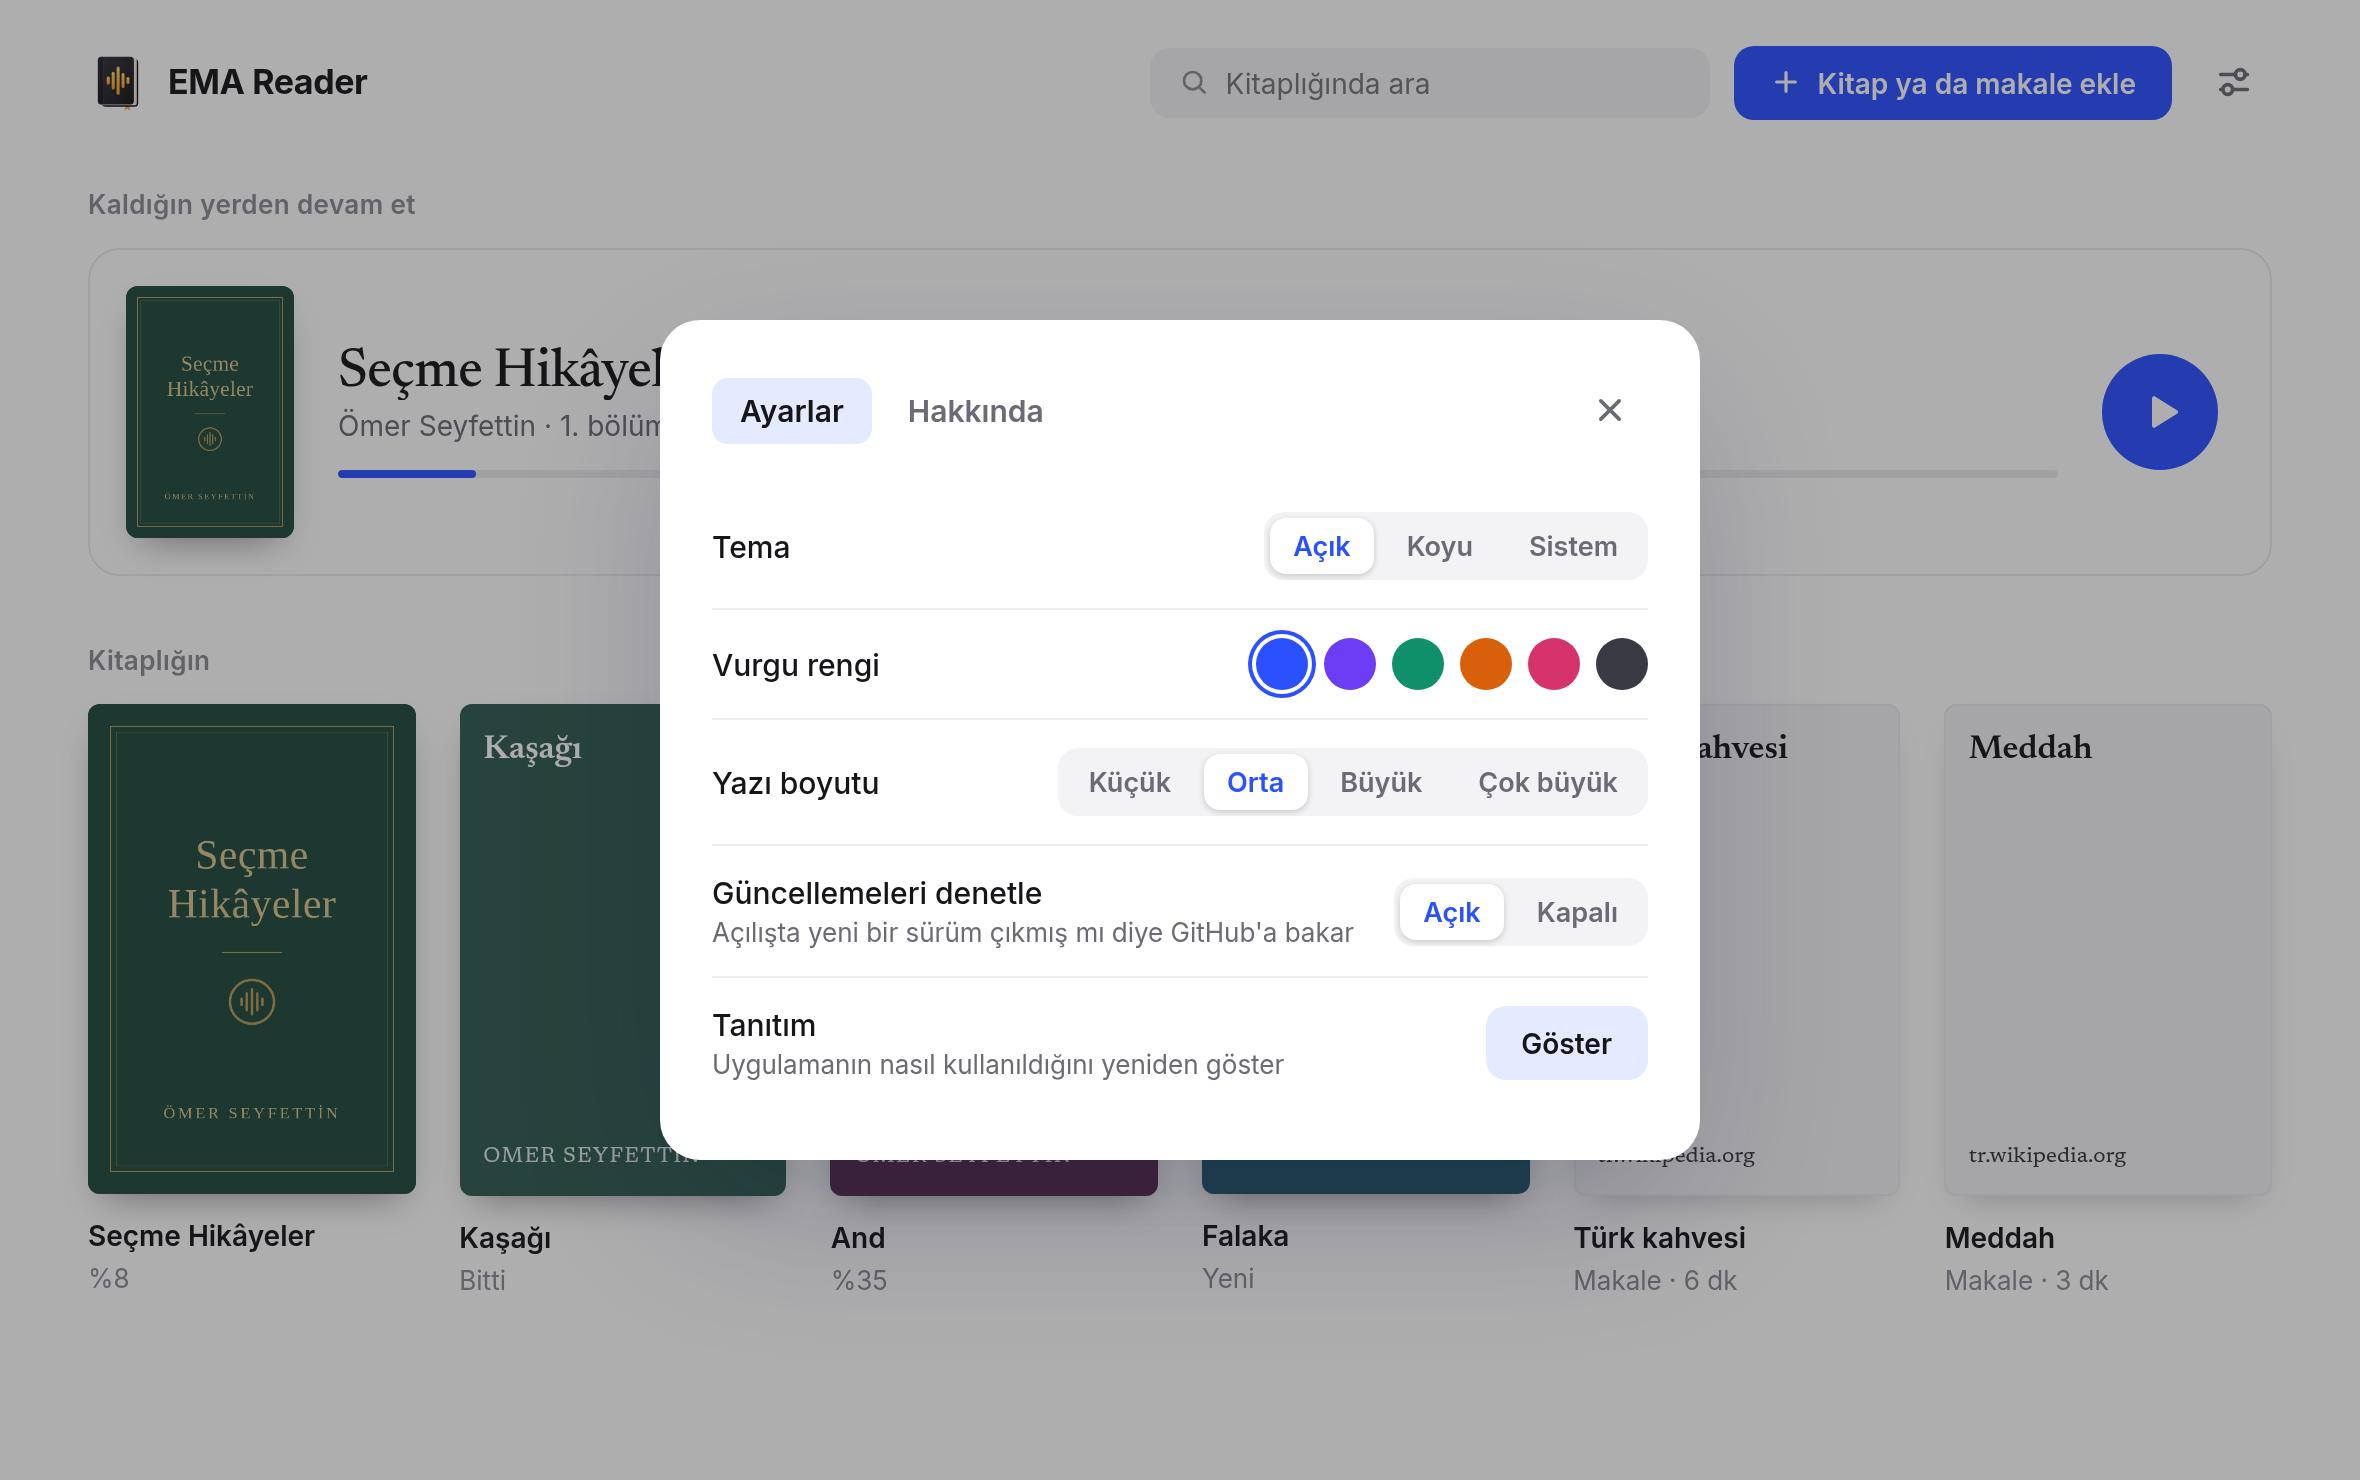
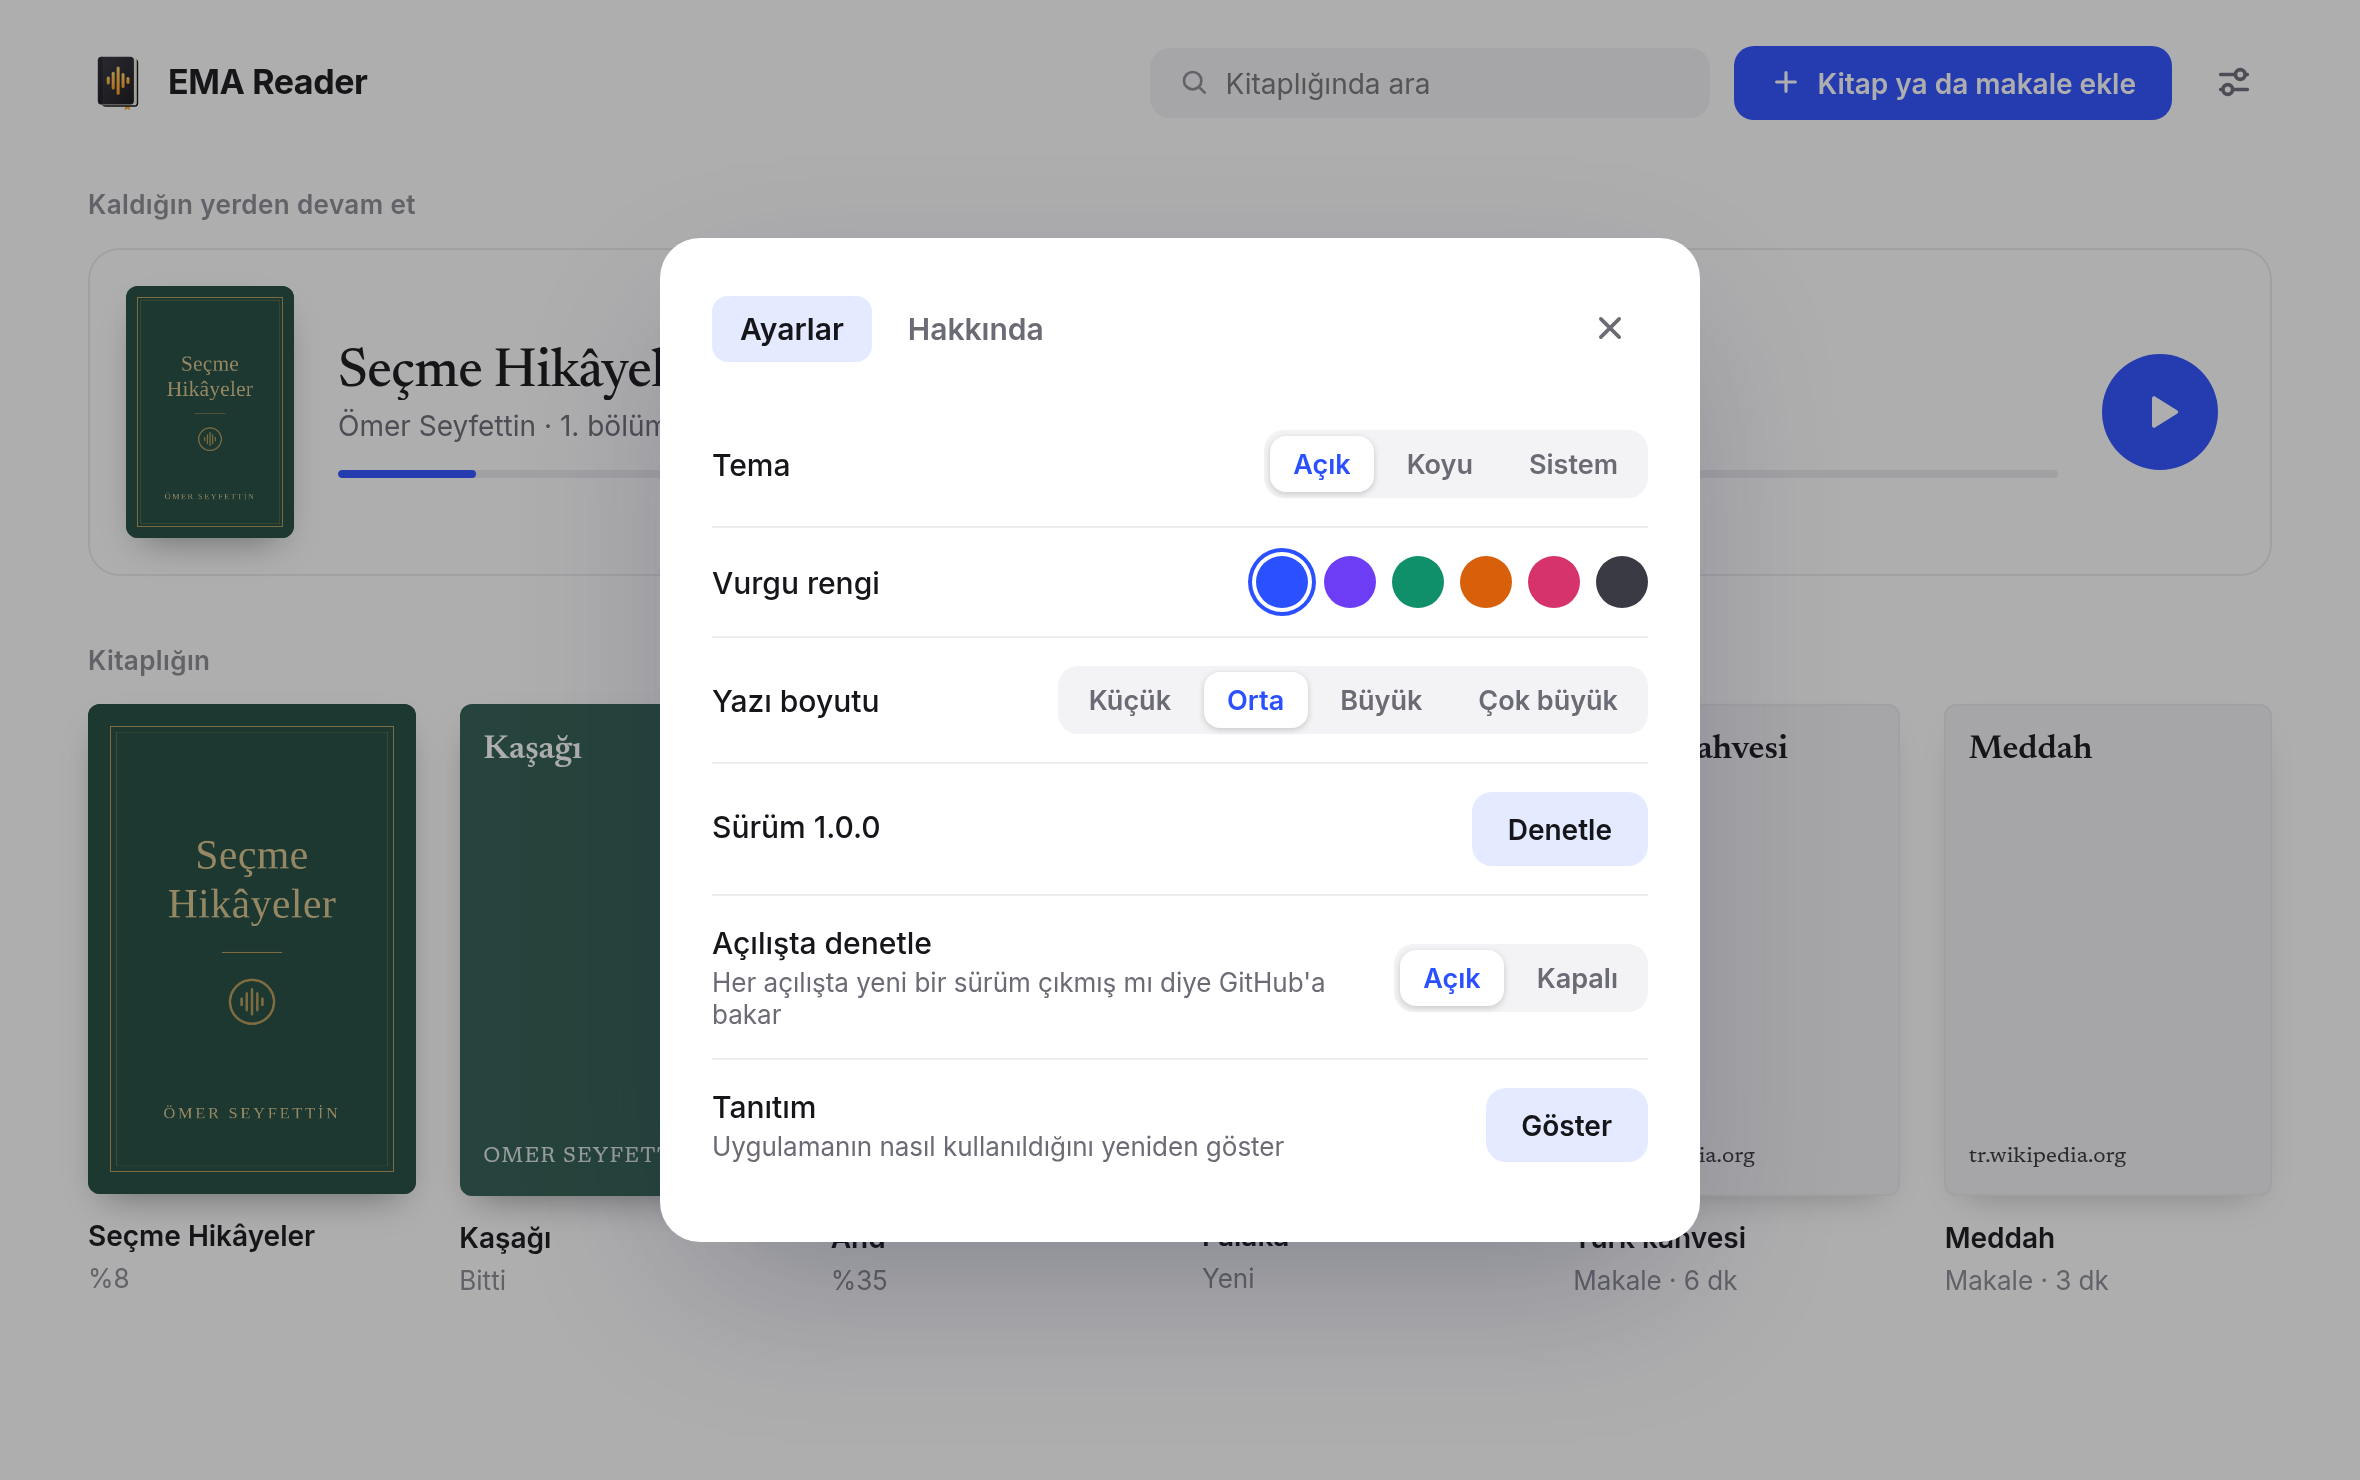
Describe updating from inside the app and retake the settings screenshot

diff --git a/docs/development.md b/docs/development.md
@@ -86,7 +86,15 @@ git push origin v1.1.0
 
 Etiket gelince `build.yml` kurulum dosyalarını üretir ve `CHANGELOG.md` içindeki o bölümü not olarak koyduğu bir GitHub sürümü açar. Etiket, `VERSION` ve `CHANGELOG.md` birbirini tutmuyorsa derleme durur; aynı şeyi testler de denetler.
 
-Uygulama açılışta `update.py` aracılığıyla GitHub'daki son sürüme bakar (yanıt altı saat saklanır). Kendi sürümünden yenisini bulursa kitaplığın üstünde "EMA Reader 1.1.0 yayınlandı" çubuğunu gösterir; "Güncelle" o sürümün notlarını açar. Windows ve macOS'te kurulum dosyasının bağlantısını, kaynaktan çalışan kopyada (Linux) `git pull` komutunu verir. Denetim Ayarlar'dan kapatılabilir. Ön sürümler ve taslaklar haber verilmez.
+Uygulama açılışta `update.py` aracılığıyla GitHub'daki son sürüme bakar (yanıt altı saat saklanır; Ayarlar'daki "Denetle" hemen yeniden sorar). Kendi sürümünden yenisini bulursa kitaplığın üstünde "EMA Reader 1.1.0 yayınlandı" çubuğunu gösterir; aynı bilgi Ayarlar'daki sürüm satırında da durur. Açılıştaki denetim Ayarlar'dan kapatılabilir. Ön sürümler ve taslaklar haber verilmez.
+
+"Güncelle" o sürümün notlarını gösterir ve kurulumu uygulamanın içinden yapar; kullanıcının bir şey indirmesi ya da komut yazması gerekmez:
+
+- **Kaynaktan çalışan kopya (Linux):** `git pull --ff-only` ile yeni kodu alır, Python ortamı projenin kendi `.venv` klasörüyse `uv sync` ile paketleri eşitler, sonra kendini yeniden başlatır.
+- **Windows:** yeni kurulum dosyasını indirir, sessizce çalıştırır ve kapanır; kurulum bitince uygulamayı yeniden açar.
+- **macOS:** yeni disk görüntüsünü indirir, uygulama kapanınca içindeki uygulamayı eskisinin yerine koyar ve yeniden açar. Eski uygulama, yenisi tümüyle kopyalanana kadar silinmez.
+
+Güncellemeyi yalnızca aynı bilgisayardan gelen ve uygulamanın kendi sayfasının gönderdiği istek başlatabilir (`POST /api/update`, `X-EMA-Reader: update` başlığıyla). Kurulum dosyaları yalnızca `https://github.com/` adresinden indirilir.
 
 Yayınlamadan denemek için `EMA_READER_UPDATE_URL` ile GitHub'ın sürüm yanıtı biçiminde bir dosya gösterilebilir:
 
@@ -118,7 +126,8 @@ Testler metin çıkarmayı, dışa aktarım adlandırmasını ve güncelleme den
 | `GET /api/exports/JOB` | `{"state": "working", "progress": 0.4, "name": "..."}` |
 | `GET /api/exports/JOB/file` | Hazır dosya |
 | `DELETE /api/exports/JOB` | Dışa aktarımı iptal et |
-| `GET /api/update` | `{"current": "1.0.0", "latest": "1.1.0", "newer": true, "notes": "...", "page": "...", "download": "..."}` |
+| `GET /api/update` | `{"current": "1.0.0", "latest": "1.1.0", "newer": true, "notes": "...", "page": "...", "download": "...", "job": {...}}`; `?fresh=1` yeniden sorar |
+| `POST /api/update` | Yeni sürümü kurar ve uygulamayı yeniden başlatır; yalnızca bu bilgisayardan |
 | `GET /tts`, `POST /tts` | Düz metinden sese |
 | `GET /health` | `{"status": "ok", "version": "..."}` |
 

diff --git a/README.md b/README.md
@@ -78,7 +78,7 @@ EMA Reader'ı ilk açtığında sana etrafı gezdirir. Kısa bir karşılama met
 - Yalnızca sayfa resimlerinden oluşan taranmış bir PDF'te okunacak metin yoktur.
 - Ses yapay zekâ ile üretilir. Bir kaydı paylaşırsan bunu belirt.
 - Sayılar, tarihler ve kısaltmalar kendiliğinden okunur; ara sıra yanlış çıkabilir.
-- Yeni bir sürüm çıktığında uygulama açılışta haber verir. Bunun için yalnızca GitHub'a "son sürüm hangisi" diye sorar; istemezsen Ayarlar'dan kapatabilirsin.
+- Yeni bir sürüm çıktığında uygulama açılışta haber verir; "Güncelle"ye basman yeterli, yeni sürümü kendisi kurup yeniden açılır. Sürümünü Ayarlar'da görebilir, oradan elle de denetleyebilirsin. Denetim için yalnızca GitHub'a "son sürüm hangisi" diye sorulur; istemezsen Ayarlar'dan kapatabilirsin.
 
 ## Emeği geçenler
 
